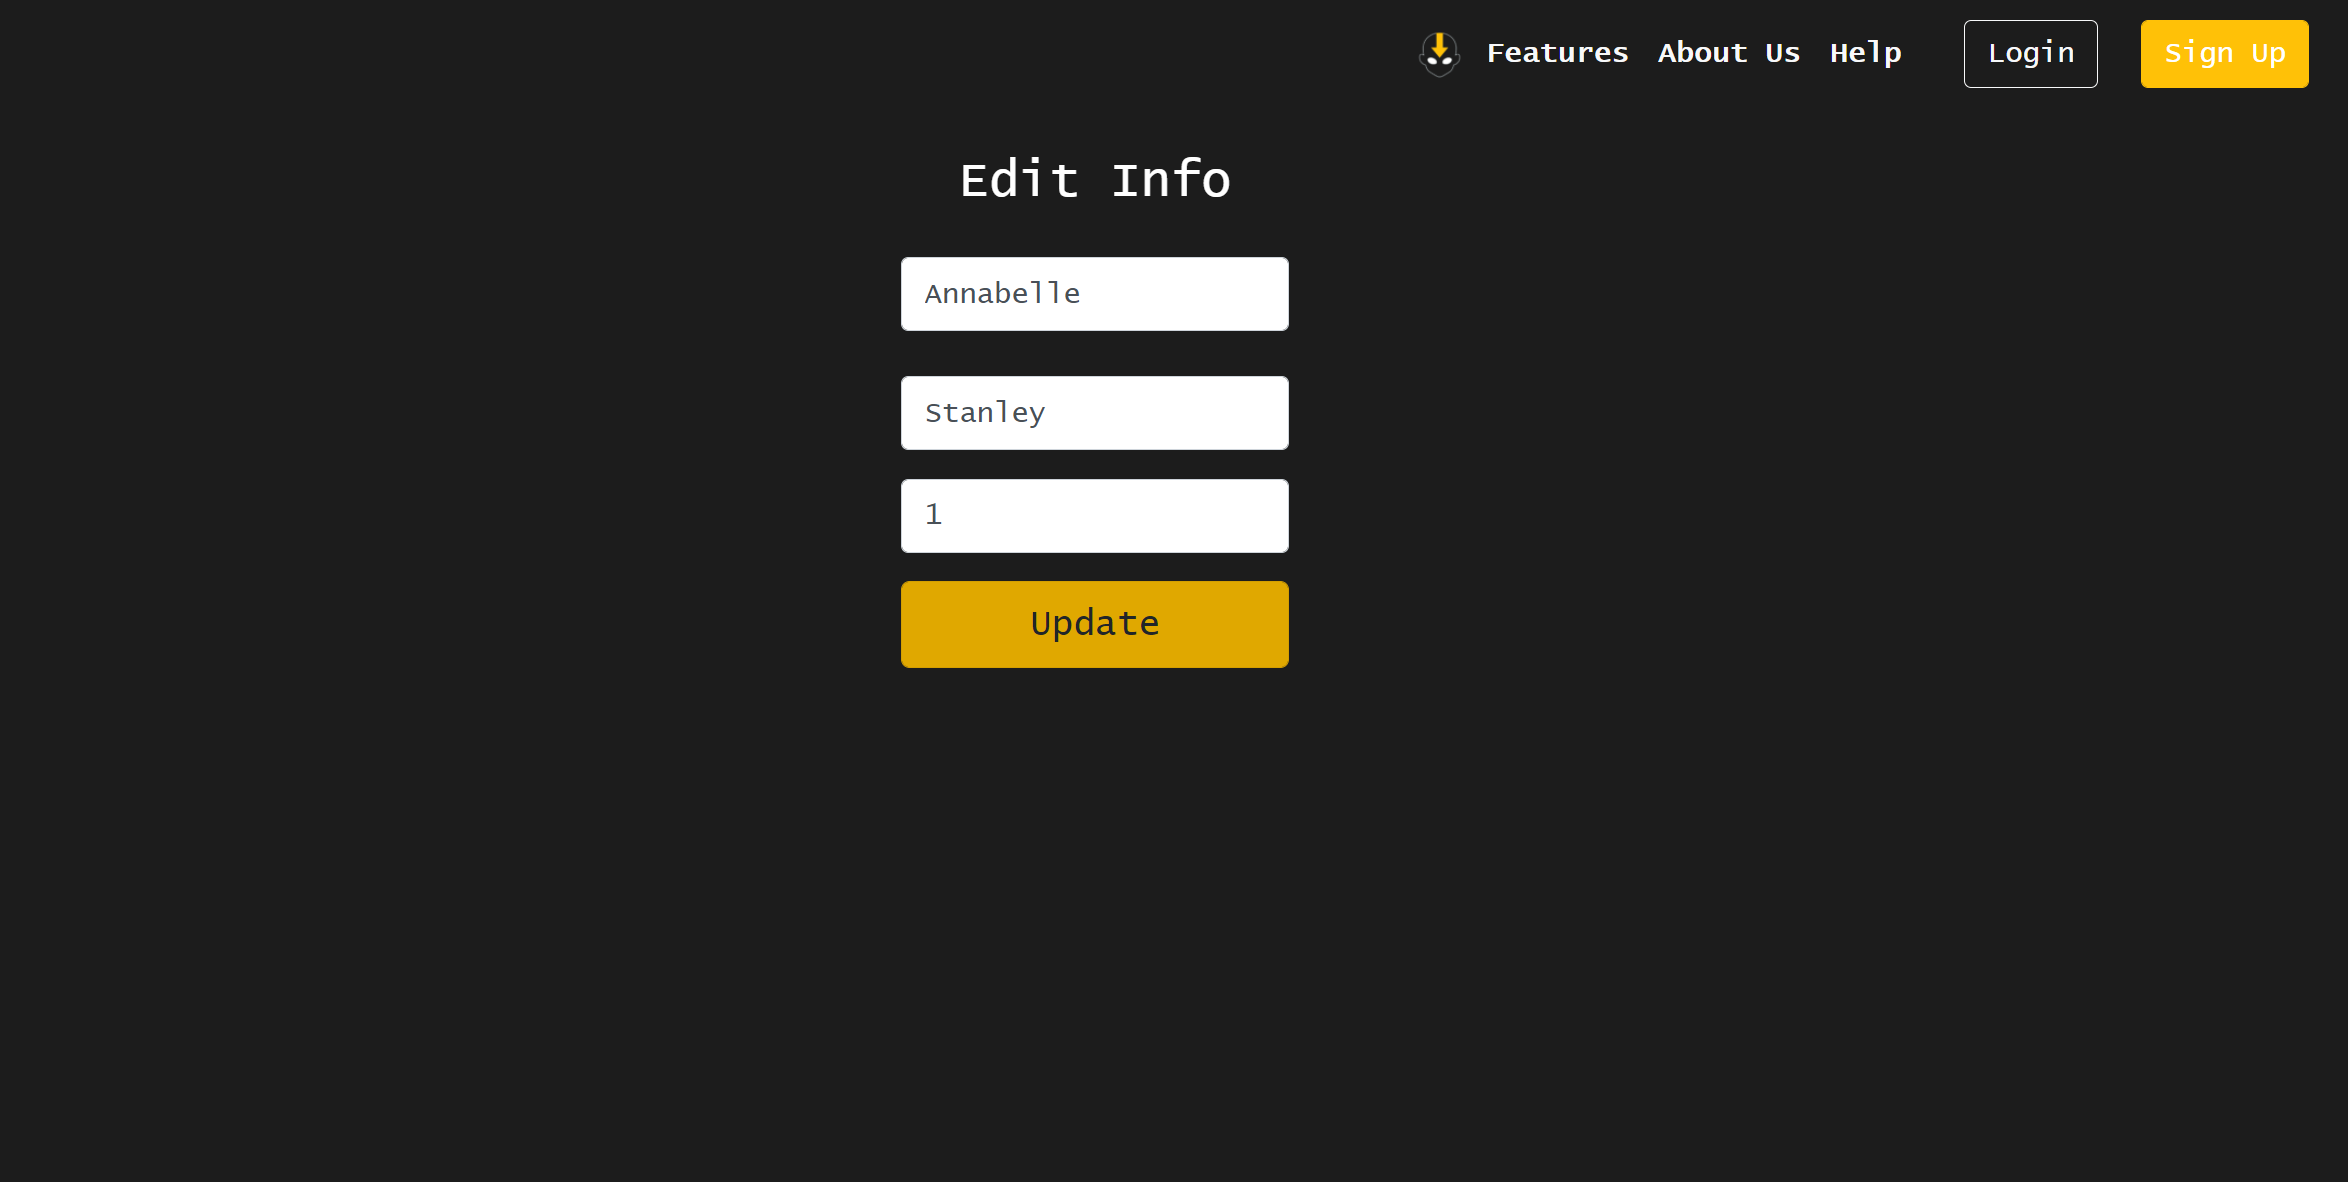
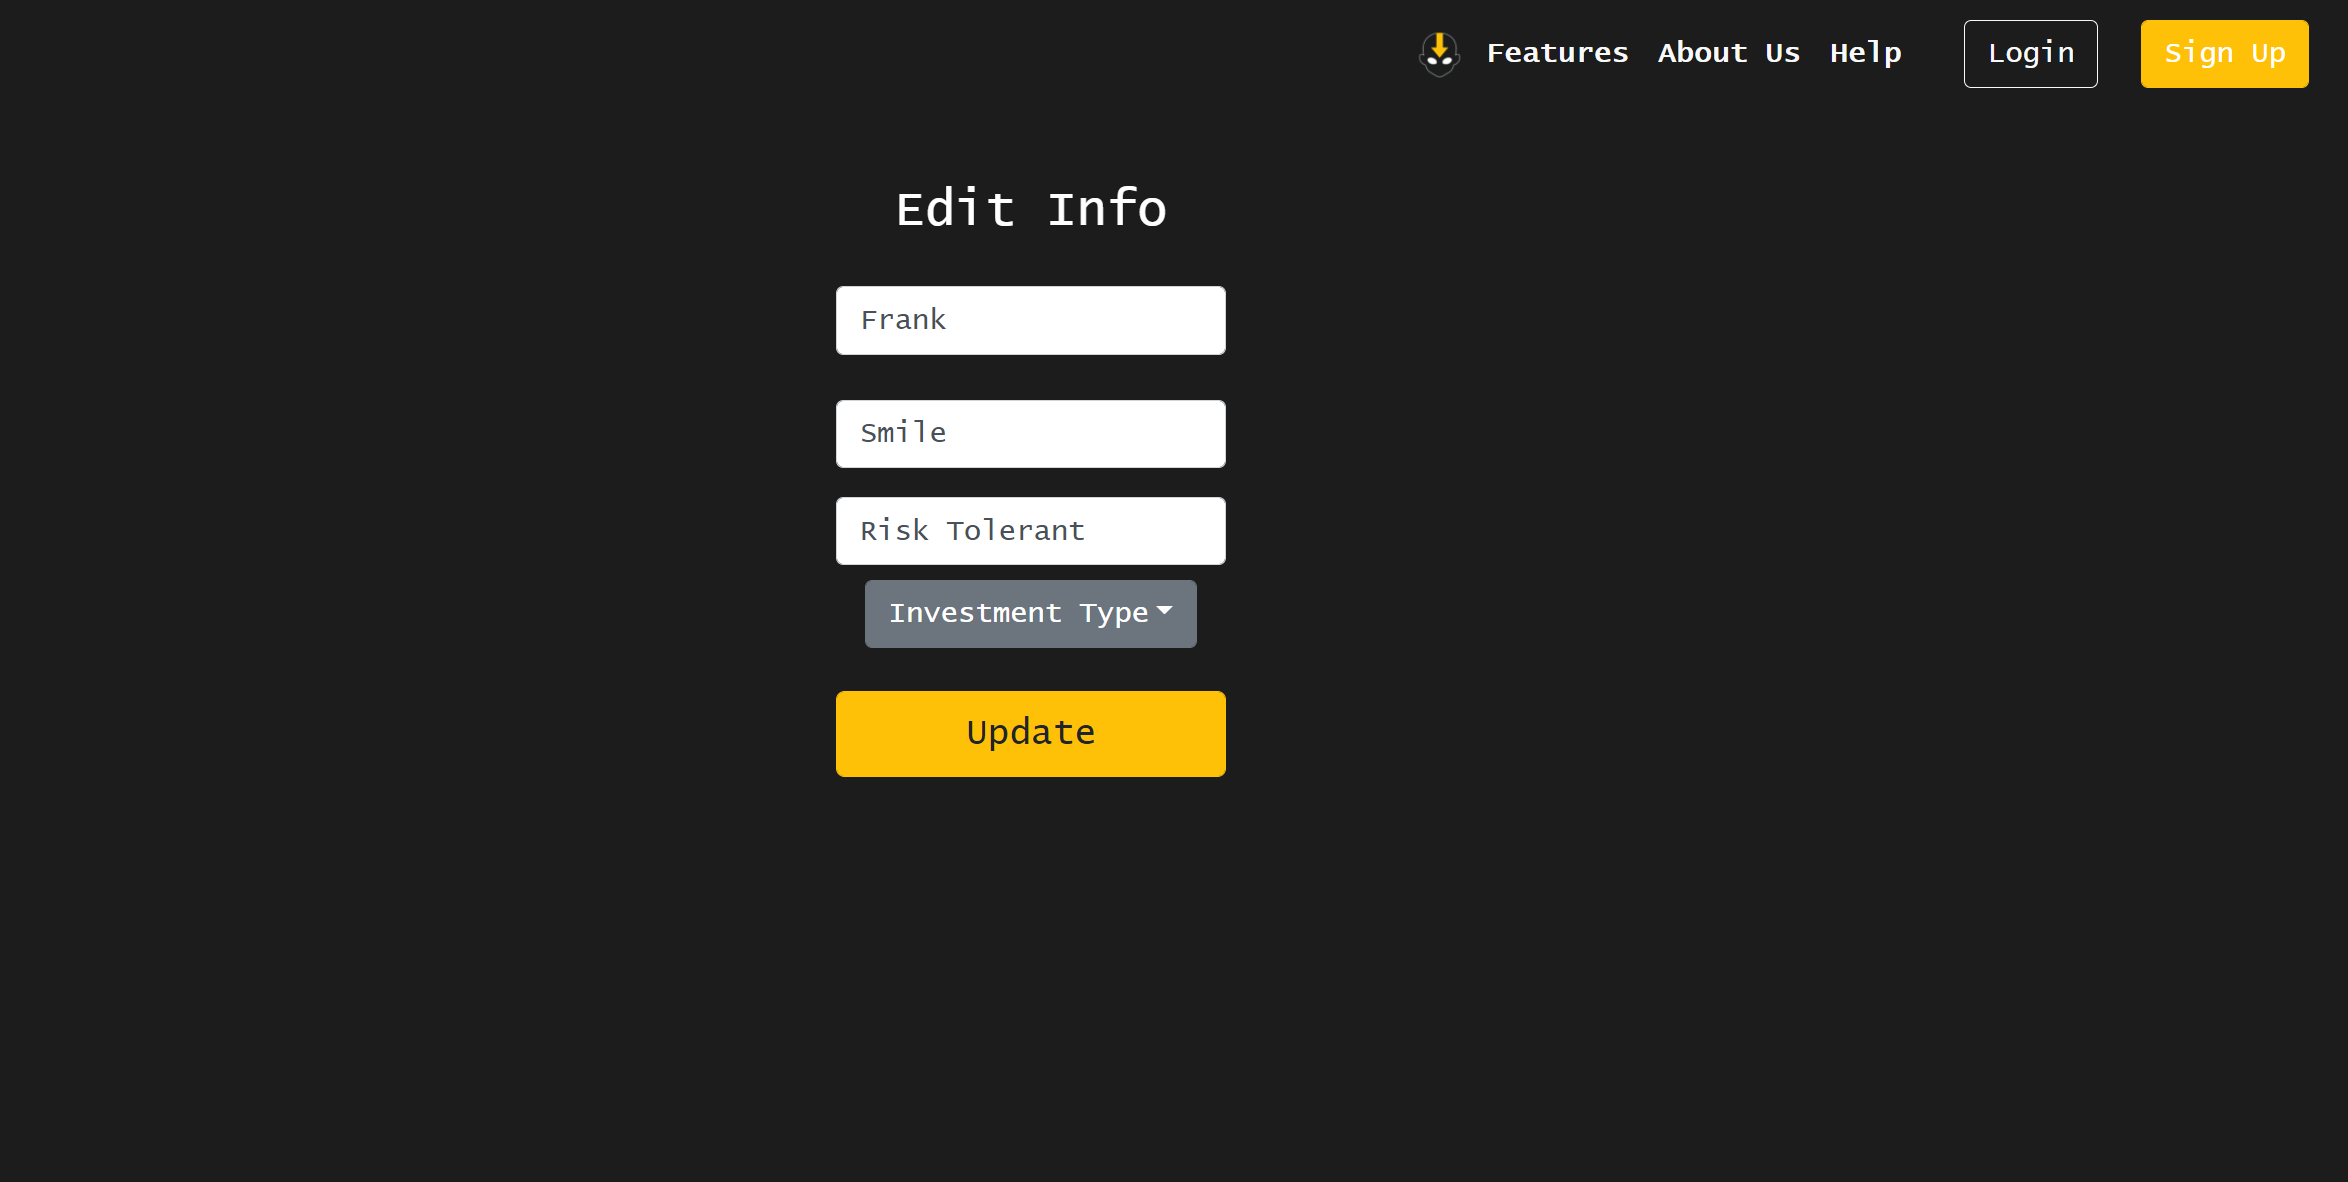
Edit help page to reflect changes

Changed region(s): [[0.342, 0.1218, 0.5596, 0.6701]]

diff --git a/frontend/src/components/NoHomeNavBar.js b/frontend/src/components/NoHomeNavBar.js
@@ -1,0 +1,32 @@
+import React from 'react';
+import miniAang from '../images/miniAang.png';
+
+/**
+ * NoHomeNavBar.js
+ * Purpose: Display a navigation bar in the top right corner of every page
+ *          Contains links to /home, /features, /about, /help, /login, and /sign-up
+ * @author Elisa Rexinger
+ */
+
+function NoHomeNavBar() {
+    return (
+      <header className="p-3 style={{'background-color': '#1c1c1c', 'margin':'10}} text-white" className={"button"}>
+        <div className="container">
+          <div className="d-flex flex-wrap align-items-center justify-content-flex-start justify-content-lg-start">
+          <ul className="nav col-12 col-lg-auto me-lg-auto mb-2 justify-content-center mb-md-0">
+            <li><a href="/features" className="nav-link px-2 text-light">Features</a></li>
+            <li><a href="/about" className="nav-link px-2 text-light">About Us</a></li>
+            <li><a href="/help" className="nav-link px-2 text-light">Help</a></li>
+          </ul>
+
+          <div className="text-end"style={{'justify-content': 'flex-end'}}>
+            <a href="/login" className="btn btn-outline-light me-2" style={{'margin':'12px'}}>Login</a>
+            <a href="/sign-up" className="btn btn-warning text-white" style={{'margin':'12px'}}>Sign Up</a>
+          </div>
+        </div>
+      </div>
+    </header>
+  );    
+}
+
+export default NoHomeNavBar;

diff --git a/frontend/src/pages/help/EditUserPageHelp.js b/frontend/src/pages/help/EditUserPageHelp.js
@@ -28,7 +28,7 @@ function EditUserPageHelp() {
     
                 <tr>
                     <td><img src={editUserFields} className="Maxi-aang" alt="navigation bar" /></td>
-                    <td>Text-fields for existing users to enter their updated first name, last name, and/or investment type information.</td>
+                    <td>Text-fields and dropdown menu for existing users to enter their updated first name, last name, and/or investment type information.</td>
                 </tr>
                 <tr>
                     <td><img src={updateButton} className="Mini-aang" alt="navigation bar" /></td>

diff --git a/frontend/src/pages/SignUp.js b/frontend/src/pages/SignUp.js
@@ -2,6 +2,8 @@ import React, { Component } from "react";
 import getAPIHost from '../components/Environment';
 import logo from '../images/greyLogoCropped.png';
 import axios from "axios";
+import NoHomeNavBar from '../components/NoHomeNavBar'
+
 
 
 /**
@@ -116,6 +118,7 @@ export default class SignUp extends Component {
 
   render() {
     return (
+      
       <div className="Content">
         <a href="/" className="d-flex align-items-center mb-2 mb-lg-0 text-white text-decoration-none">
           <img className="App-logo" src={logo} alt="logo" />

diff --git a/frontend/src/pages/help/Help.js b/frontend/src/pages/help/Help.js
@@ -60,7 +60,7 @@ class Help extends Component {
 
                         <tr>
                             <td><img src={navBar} className="Mini-aang" alt="navigation bar" /></td>
-                            <td>Top left of every page</td>
+                            <td>Top right of every page</td>
                             <td>Contains links to main features, expounded below</td>
                             <td>Clicking desired link text</td>
                             <td>Redirection to page corresponding to link text</td>
